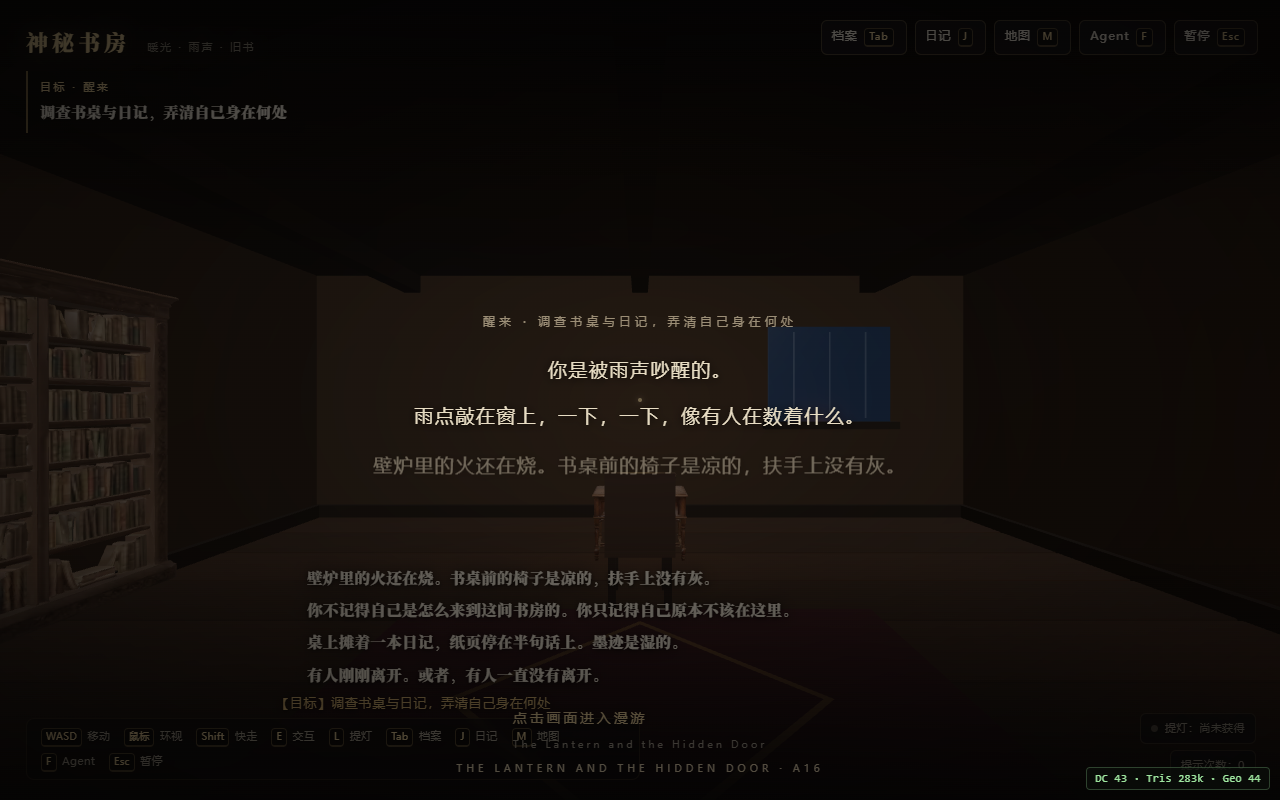
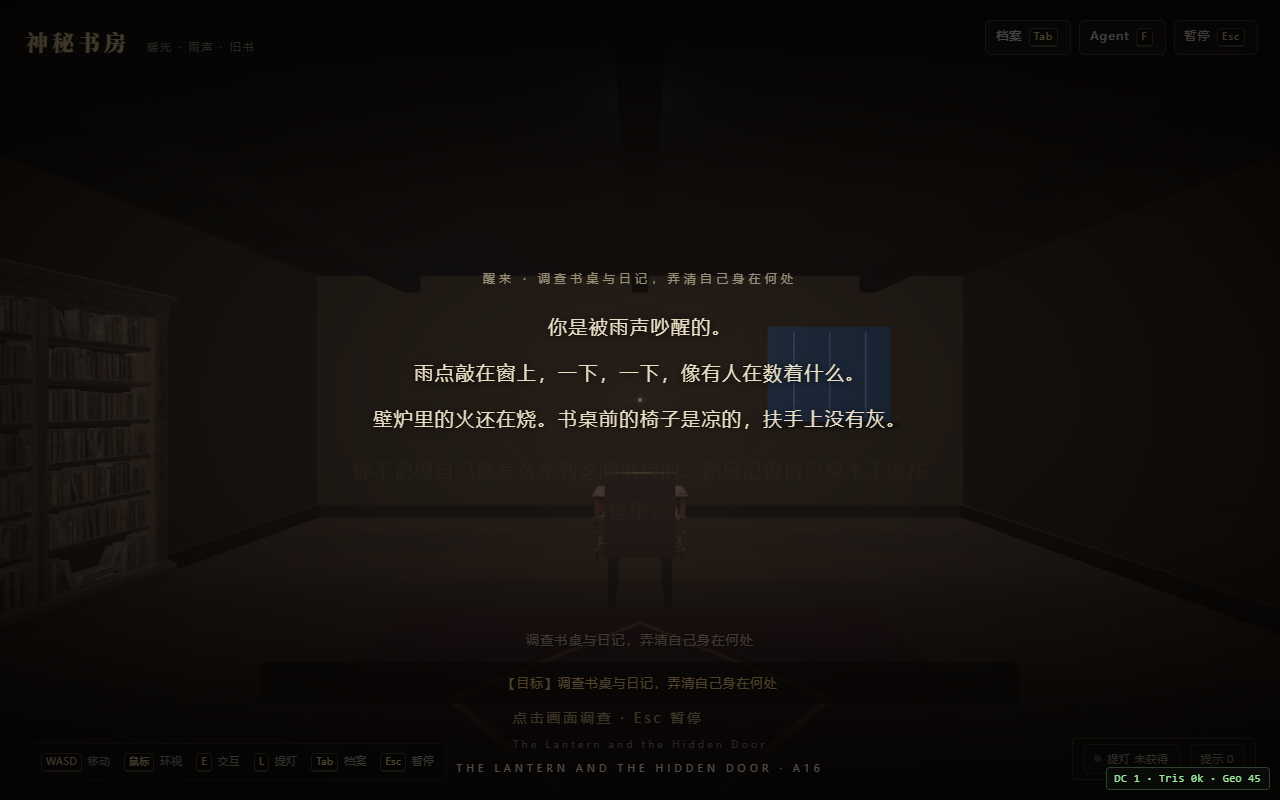
fix(render): 书房渲染对齐密室配方——移除私写叠加层+同构四光+雾同构
- 第3步: 删除 StudyRoomLighting 组件（私写叠加渲染配置=平涂元凶：
  冷蓝 directional castShadow+台灯 intensity 8+额外 hemi 0.25 三重叠加）
- 第4步: 密室配方搬入书房 Lighting study 分支——同构四光（壁炉暖 Flicker 1.5/
  台灯暖 Flicker 1.1/窗外月光冷蓝 0.5（雨夜偏冷适配）/冷蓝顶光 Flicker 0.8
  +fill 暖白 0.3）；hemisphere 0.35→0.14 对齐；雾 far 24→20（比密室 18
  略低密度适配雨夜大房间）；窗 emissive 0.55→0.9 触发 Bloom 光晕
- 第5步: GLB 链路核对——desk(L108)/bookshelf(L191)/tapestry(L586) 全走
  同一 PropAsset→useGLTF(src,false,true) meshopt 链路 ✓
- 视觉验收: 开场浮层+书房新配方截图（28-opening-overlay.png）
- 门禁: build 7.38s + 39/39 单测 + perf-gate 2/2 + E2E main-story 4/4

diff --git a/demo/src/scene/Lighting.tsx b/demo/src/scene/Lighting.tsx
@@ -38,18 +38,22 @@ export function ZoneLighting({ zone }: { zone: ZoneId }) {
     <>
       <ambientLight intensity={zoneDef.ambient} color={ambientColor} />
       <hemisphereLight
-        intensity={zone === 'zone_study' ? 0.35 : 0.14}
-        color={zone === 'zone_study' ? '#ffe4bb' : '#cdd9ff'}
+        intensity={zone === 'zone_study' ? 0.14 : 0.14}
+        color={zone === 'zone_study' ? '#cdd9ff' : '#cdd9ff'}
         groundColor="#111111"
       />
 
       {zone === 'zone_study' && (
         <>
-          <FlickerLight position={[4.1, 0.85, 0.6]} color="#ff9a4d" intensity={2.4} distance={8} seed={1.3} speed={9} />
+          {/* 任务③：密室配方搬入书房（同构四光），雨夜三参数适配——
+              壁炉暖 Flicker 保留（光源本体）、窗外月光偏冷、fill 暖白压暗 */}
+          <FlickerLight position={[4.1, 0.85, 0.6]} color="#ff9a4d" intensity={1.5} distance={7} seed={1.3} speed={9} />
           <FlickerLight position={[0, 1.35, -2.4]} color="#ffcf8a" intensity={1.1} distance={4.5} seed={2.1} speed={3} />
+          {/* 窗外月光：偏冷蓝、低位氛围（雨夜主光偏冷适配） */}
           <pointLight position={[-2.6, 2.4, -4.6]} color="#5f7bd6" intensity={0.5} distance={9} decay={2} />
-          {/* 任务②档1：暖色 fill——书架/油画暗角填充，提升 GLB 材质可读性 */}
-          <pointLight position={[0, 2.2, 0]} color="#ffe8c8" intensity={0.28} distance={11} decay={1.9} />
+          <FlickerLight position={[0, 3.2, 0]} color="#7fa0ff" intensity={0.8} distance={9} seed={4.4} speed={1.6} />
+          {/* fill 暖白：书架/油画 GLB 细部可读性 */}
+          <pointLight position={[0, 2.0, 1.2]} color="#d8e4ff" intensity={0.3} distance={9} decay={1.9} />
         </>
       )}
 

diff --git a/demo/src/scene/World.tsx b/demo/src/scene/World.tsx
@@ -5,7 +5,6 @@ import { RoomEnvironment } from 'three/examples/jsm/environments/RoomEnvironment
 import { RoomShell } from './RoomShell.tsx'
 import { ZoneProps, HighlightHalo } from './Props.tsx'
 import { ZoneLighting } from './Lighting.tsx'
-import { StudyRoomLighting } from './StudyRoomLighting.tsx'
 import { Player } from './Player.tsx'
 import { CameraRig } from './CameraRig.tsx'
 import { useGameStore } from '../game/store.ts'
@@ -19,7 +18,8 @@ export function World() {
 
   const background = zone === 'zone_study' ? '#0a0806' : zone === 'zone_basement' ? '#030506' : '#06050b'
   const fogNear = zone === 'zone_basement' ? 1.5 : 2.5
-  const fogFar = zone === 'zone_study' ? 24 : zone === 'zone_basement' ? 15 : 18
+  // 任务③：书房雾与密室同构（far 20，比密室 18 略低密度适配雨夜大房间）
+  const fogFar = zone === 'zone_study' ? 20 : zone === 'zone_basement' ? 15 : 18
 
   // T-028 拾取加速：zone 挂载完成后对该场景 mesh 建 BVH（幂等；geometry 缓存共享仅首次有成本）
   useEffect(() => {
@@ -46,7 +46,6 @@ export function World() {
       <color attach="background" args={[background]} />
       <fog attach="fog" args={[background, fogNear, fogFar]} />
       <ZoneLighting zone={zone} />
-      {zone === 'zone_study' && <StudyRoomLighting />}
       <RoomShell zone={zone} />
       <ZoneProps zone={zone} />
       <HighlightHalo />

diff --git a/demo/src/scene/RoomShell.tsx b/demo/src/scene/RoomShell.tsx
@@ -23,7 +23,7 @@ const MAT = {
   wallStudyW: std('#443629', 0.9),
   wallStudyE: std('#3f3226', 0.9),
   beam: std('#241a12', 0.95),
-  window: std('#1e2b3f', 0.2, { emissive: '#2c4a72', emissiveIntensity: 0.55 }),
+  window: std('#1e2b3f', 0.2, { emissive: '#2c4a72', emissiveIntensity: 0.9 }),
   sill: std('#2b2118', 0.8),
   base: std('#2b2016', 0.85),
   // 地下室
